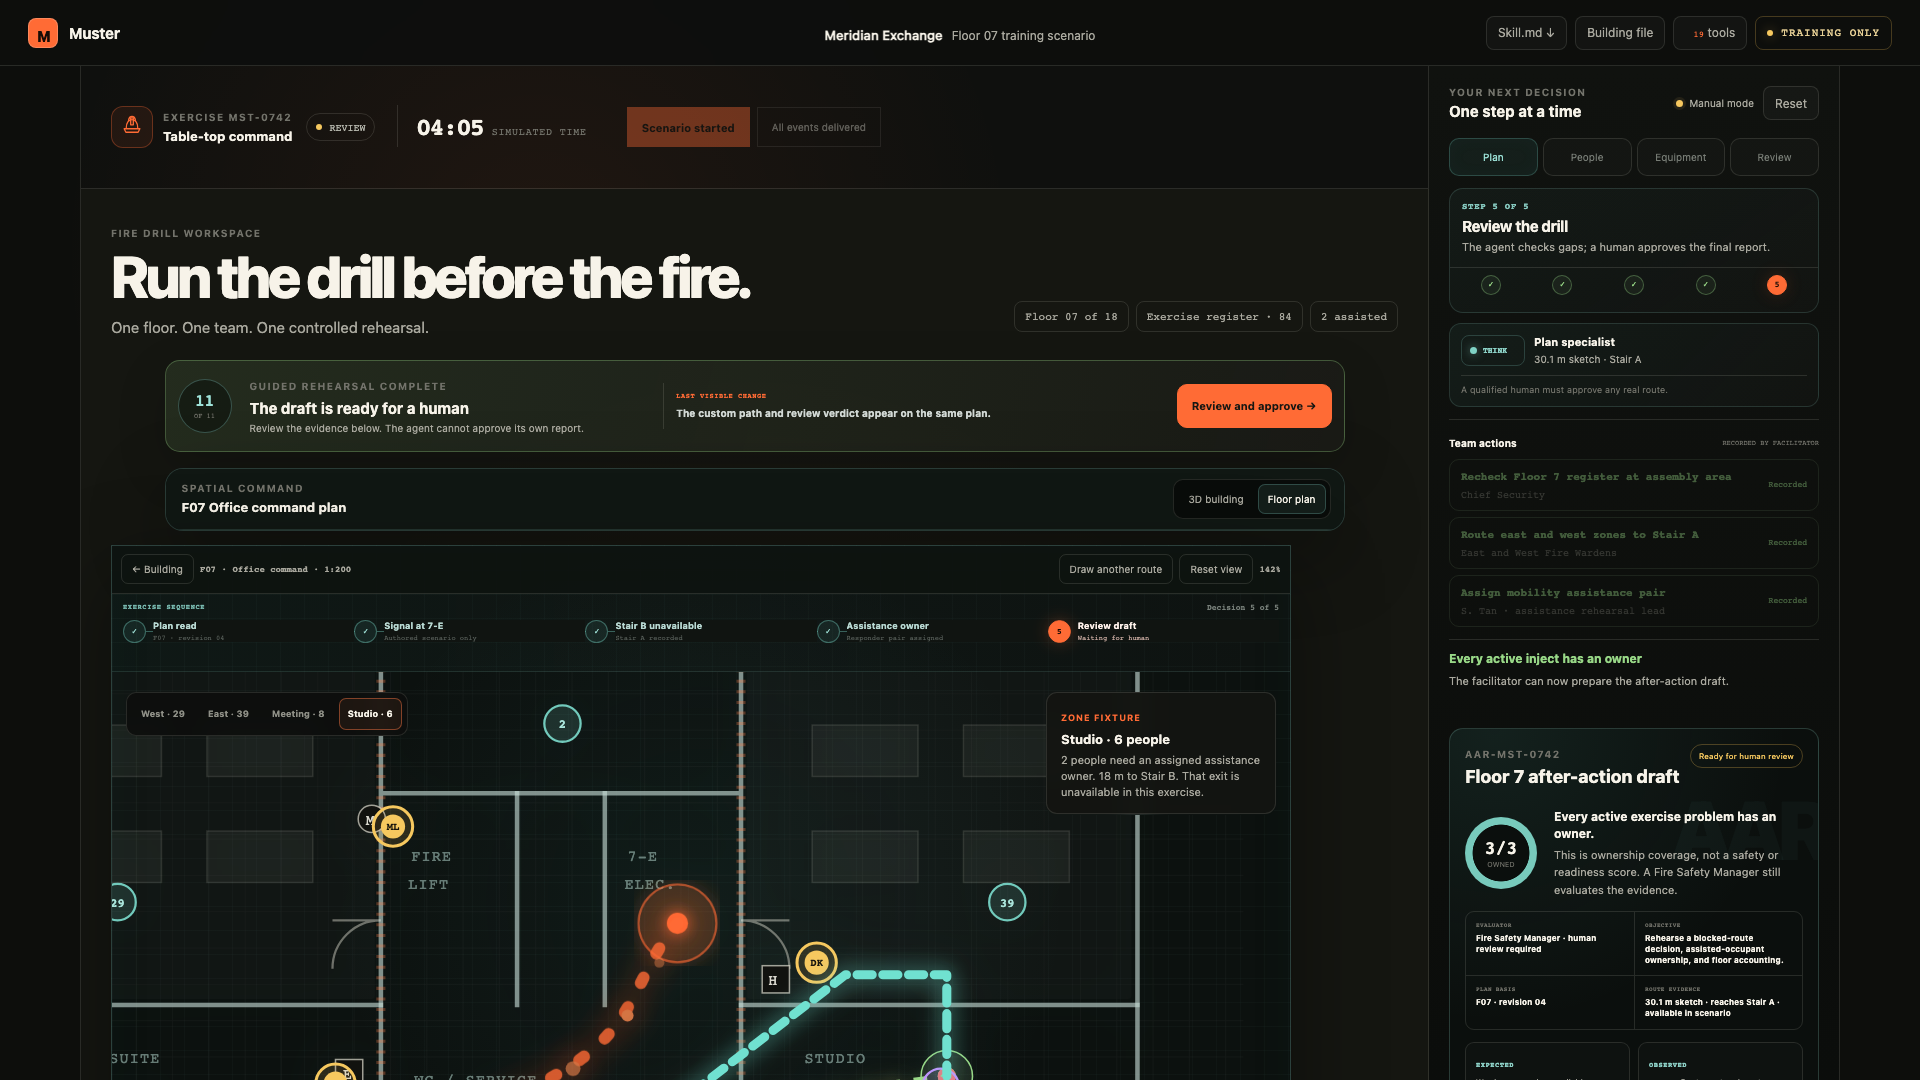
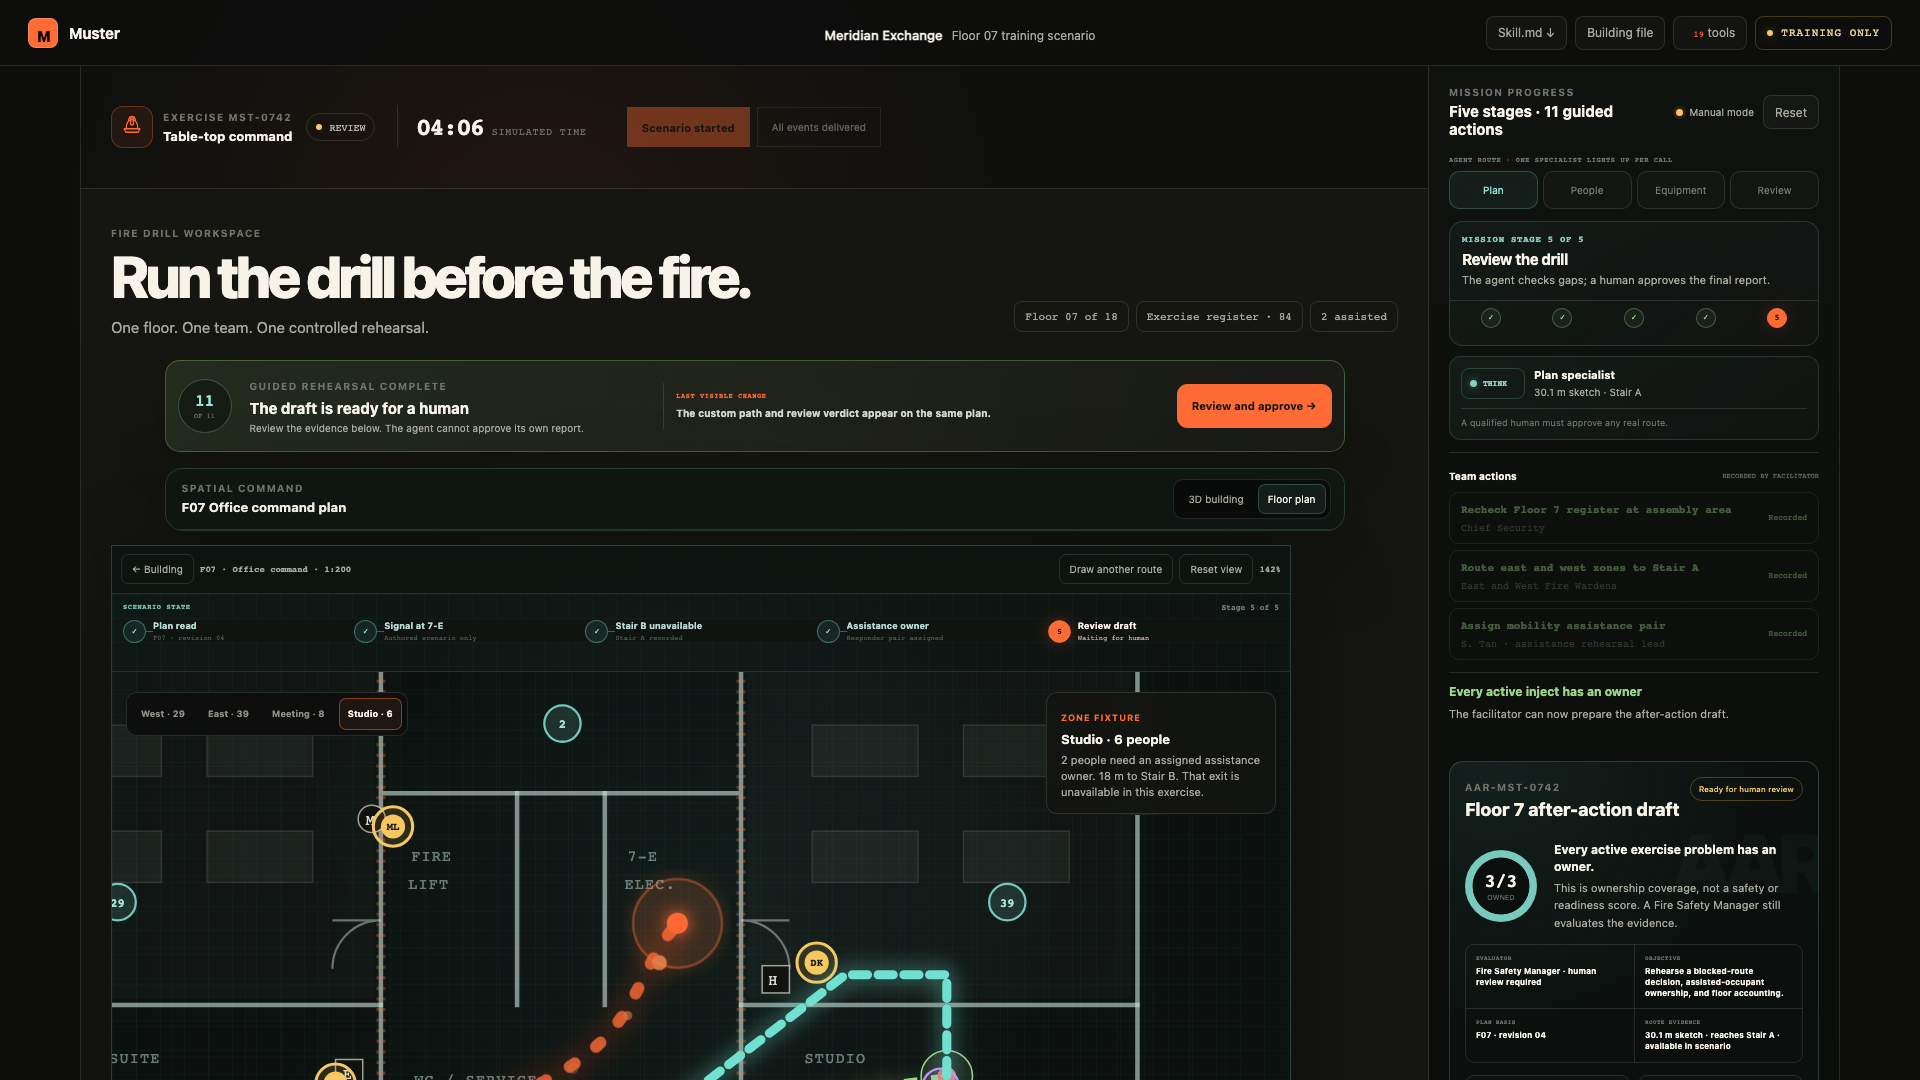
Unify native WebMCP mission progress

diff --git a/app.js b/app.js
@@ -502,6 +502,18 @@ function tracePayload(value) {
   }
 }
 
+function normaliseToolInput(value) {
+  if (typeof value === 'string') {
+    try {
+      const parsed = JSON.parse(value);
+      return parsed && typeof parsed === 'object' && !Array.isArray(parsed) ? parsed : {};
+    } catch {
+      return {};
+    }
+  }
+  return value && typeof value === 'object' && !Array.isArray(value) ? value : {};
+}
+
 function attachTraceEvidence(name, input, result, durationMs, activityStart) {
   let target = -1;
   for (let index = state.activity.length - 1; index >= activityStart; index -= 1) {
@@ -540,6 +552,7 @@ const specialistForTool = {
 };
 
 const friendlyToolNames = {
+  run_drill_manager: 'Route one mission intent',
   read_plan: 'Read plan',
   start_drill: 'Start smoke scenario',
   send_inject: 'Advance scenario',
@@ -563,6 +576,7 @@ const friendlyToolNames = {
 const traceMeta = {
   'Exercise loaded': { phase: 'Observe', owner: 'System', why: 'Load a clean fictional exercise state.', change: 'No building state changed.', boundary: 'No network or emergency connection.' },
   'WebMCP ready': { phase: 'Ready', owner: 'Manager', why: 'Expose the visible page actions to an enabled browser agent.', change: 'Tools became discoverable in this tab.', boundary: 'Registration does not grant hidden data or external control.' },
+  run_drill_manager: { phase: 'Route', owner: 'Incident Commander', why: 'Turn one human intent into a bounded sequence of named page tools.', change: 'Specialist results and their visible receipts are reconciled on this page.', boundary: 'The manager cannot call emergency services, control building systems, or approve the report.' },
   read_plan: { phase: 'Think', owner: 'Plan specialist', why: 'Ground the exercise in the visible plan revision, exits, roles, and fixture counts.', change: 'Plan context is available to the drill manager.', boundary: 'Reads only this fictional page.' },
   start_drill: { phase: 'Act', owner: 'Plan specialist', why: 'Begin the authored tabletop sequence.', change: 'The smoke inject appears beside room 7-E.', boundary: 'No alarm, dispatch, door, or building system is activated.' },
   send_inject: { phase: 'Act', owner: 'People specialist', why: 'Introduce one controlled complication for the team to respond to.', change: 'The timeline, map, and responsibility checks update together.', boundary: 'The facilitator chooses when an inject is delivered.' },
@@ -794,6 +808,7 @@ async function callTool(name, input = {}) {
 }
 
 function summariseToolResult(name, result) {
+  if (name === 'run_drill_manager') return `Routed “${String(result.intent || 'request').replaceAll('_', ' ')}” through the Incident Commander. Named specialist calls remain visible below.`;
   if (name === 'read_plan') return `${result.occupants} people, ${result.exits.length} exits, and ${result.assisted_occupants} people needing an assigned assistance owner.`;
   if (name === 'start_drill') return 'The drill is live. A scripted smoke signal is now shown beside room 7-E. Record the team response, then advance the scenario.';
   if (name === 'send_inject') return state.injectIds.includes('roster') ? 'The final event is live: two people need assistance, but no owner is assigned. Record who takes responsibility.' : 'Stair B is now unavailable in the exercise. Record the alternate route before continuing.';
@@ -916,7 +931,7 @@ function renderScenarioSequence() {
     { key: 'review', label: reportStaged ? 'Review draft' : 'Human review', detail: approved ? 'Approved by FSM' : reportStaged ? 'Waiting for human' : 'Evidence not staged', tone: 'review' },
   ];
 
-  container.innerHTML = `<header><span>Exercise sequence</span><strong>${approved ? 'Human-approved record' : `Decision ${Math.min(currentIndex + 1, stages.length)} of ${stages.length}`}</strong></header><ol>${stages.map((stage, index) => {
+  container.innerHTML = `<header><span>Scenario state</span><strong>${approved ? 'Human-approved record' : `Stage ${Math.min(currentIndex + 1, stages.length)} of ${stages.length}`}</strong></header><ol>${stages.map((stage, index) => {
     const isDone = approved || index < currentIndex;
     const isCurrent = !approved && index === currentIndex;
     return `<li class="${isDone ? 'done' : ''} ${isCurrent ? 'current' : ''} tone-${stage.tone}" data-sequence-stage="${stage.key}" ${isCurrent ? 'aria-current="step"' : ''}><i>${isDone ? '✓' : index + 1}</i><div><strong>${stage.label}</strong><span>${stage.detail}</span></div></li>`;
@@ -1237,7 +1252,7 @@ function renderPhaseGuide() {
     ['Record the team', 'The facilitator records routes, accounting, and ownership.'],
     ['Review the drill', 'The agent checks gaps; a human approves the final report.'],
   ];
-  $('#phaseGuide').innerHTML = `<div class="phase-intro"><span>Step ${Math.min(phase + 1, 5)} of 5</span><strong>${steps[phase][0]}</strong><p>${steps[phase][1]}</p></div><ol>${steps.map(([title], index) => `<li class="${index < phase ? 'done' : index === phase ? 'current' : ''}"><i>${index < phase ? '✓' : index + 1}</i><span>${title}</span></li>`).join('')}</ol>`;
+  $('#phaseGuide').innerHTML = `<div class="phase-intro"><span>Mission stage ${Math.min(phase + 1, 5)} of 5</span><strong>${steps[phase][0]}</strong><p>${steps[phase][1]}</p></div><ol>${steps.map(([title], index) => `<li class="${index < phase ? 'done' : index === phase ? 'current' : ''}"><i>${index < phase ? '✓' : index + 1}</i><span>${title}</span></li>`).join('')}</ol>`;
 }
 
 function renderGuidedBrief() {
@@ -1246,13 +1261,14 @@ function renderGuidedBrief() {
   const latest = state.activity.at(-1);
   const completed = !step;
   container.classList.toggle('complete', completed);
+  container.setAttribute('aria-label', completed ? 'Guided rehearsal complete' : `Guided action ${guidedStep + 1} of ${GUIDED_SEQUENCE.length}`);
   $('#guidedStepIndex').textContent = String(Math.min(guidedStep + 1, GUIDED_SEQUENCE.length)).padStart(2, '0');
   $('#guidedStepTotal').textContent = `of ${GUIDED_SEQUENCE.length}`;
-  $('#guidedEyebrow').textContent = completed ? 'Guided rehearsal complete' : `Guided rehearsal · ${traceMeta[step.tool]?.phase || 'Next'}`;
+  $('#guidedEyebrow').textContent = completed ? 'Guided rehearsal complete' : `Next page-tool action · ${traceMeta[step.tool]?.phase || 'Next'}`;
   $('#guidedTitle').textContent = completed ? 'The draft is ready for a human' : step.title;
   $('#guidedDescription').textContent = completed
     ? 'Review the evidence below. The agent cannot approve its own report.'
-    : step.description;
+    : `${step.description} Muster stops after this visible change.`;
   $('#guidedChange').innerHTML = latest && latest.title !== 'Exercise loaded'
     ? `<span>Last visible change</span><strong>${escapeHtml(traceDetails(latest).change)}</strong>`
     : `<span>What this step changes</span><strong>${escapeHtml(step?.change || 'No further agent action is required.')}</strong>`;
@@ -1318,7 +1334,9 @@ function renderRuntime() {
   const selectedLabel = friendlyToolNames[selected?.title] || selected?.title?.replaceAll('_', ' ') || 'Exercise state';
   const traceNodes = selected?.type === 'human'
     ? ['Human authority', 'Approval gate', selectedLabel, 'Visible record']
-    : ['Human request', 'Incident Commander', `${details.owner} · ${selectedLabel}`, 'Visible page'];
+    : selected?.title === 'run_drill_manager'
+      ? ['Human request', 'Incident Commander', 'Named specialist calls', 'Visible page']
+      : ['Human request', 'Incident Commander', `${details.owner} · ${selectedLabel}`, 'Visible page'];
   const traceGraph = `<div class="trace-orchestration" aria-label="Delegation path for selected call">${traceNodes.map((node, index) => `<span class="${index === traceNodes.length - 1 ? 'output' : ''}">${escapeHtml(node)}</span>`).join('')}</div>`;
   $('#traceInspector').innerHTML = `${traceGraph}<div><span>Why this call</span><strong>${details.why}</strong></div><div><span>Visible change</span><strong>${details.change}</strong></div><div class="trace-payload"><div><span>Input</span><pre>${escapeHtml(JSON.stringify(input, null, 2))}</pre></div><div><span>Output</span><pre>${escapeHtml(JSON.stringify(output, null, 2))}</pre></div></div><div class="trace-bars" aria-label="Recent tool duration chart">${bars}</div><p>${details.boundary}</p>`;
 }
@@ -1363,7 +1381,12 @@ async function registerWebMCP() {
     $('#runtimeConnection').innerHTML = '<i></i> Manual mode';
     return;
   }
-  for (const tool of toolDefinitions) await document.modelContext.registerTool(tool);
+  for (const tool of toolDefinitions) {
+    await document.modelContext.registerTool({
+      ...tool,
+      execute: async (input) => callTool(tool.name, normaliseToolInput(input)),
+    });
+  }
   $('#runtimeConnection').classList.add('live');
   $('#runtimeConnection').innerHTML = '<i></i> WebMCP live';
   logTool('WebMCP ready', `${toolDefinitions.length} tools registered in this tab`);

diff --git a/index.html b/index.html
@@ -362,11 +362,12 @@
 
       <aside class="decision-deck" aria-label="Team decisions and report">
         <div class="deck-head">
-            <div><span class="eyebrow">Your next decision</span><strong>One step at a time</strong></div>
+          <div><span class="eyebrow">Mission progress</span><strong>Five stages · 11 guided actions</strong></div>
           <span class="runtime-connection" id="runtimeConnection"><i></i> Manual mode</span>
           <button class="icon-button" id="resetButton" type="button" aria-label="Reset fictional exercise">Reset</button>
         </div>
         <div class="specialist-rail" id="specialistRail" aria-label="Managed specialists">
+          <small class="specialist-label">Agent route · one specialist lights up per call</small>
           <span data-specialist="plan">Plan</span><span data-specialist="people">People</span><span data-specialist="equipment">Equipment</span><span data-specialist="review">Review</span>
         </div>
         <section class="phase-guide" id="phaseGuide" aria-live="polite"></section>

diff --git a/styles.css b/styles.css
@@ -557,6 +557,7 @@ footer { padding: 13px 28px; background: #090a08; font-size: 10px; }
 
 .decision-deck { background: linear-gradient(180deg, #10120f, #0b0d0b); }
 .decision-deck .specialist-rail { margin-top: 18px; padding: 0; border: 0; }
+.decision-deck .specialist-label { grid-column: 1 / -1; margin-bottom: 2px; color: #6f7771; font: 700 7px var(--mono); letter-spacing: .08em; text-transform: uppercase; }
 .decision-deck .specialist-rail span { min-height: 38px; display: grid; place-items: center; border-radius: 10px; color: #777c75; background: rgba(255,255,255,.014); font-size: 10px; }
 .decision-deck .specialist-rail span.active { border-color: rgba(109, 194, 182, .48); color: #9ae0d5; background: rgba(82, 174, 162, .08); box-shadow: inset 0 0 18px rgba(82,174,162,.04); animation: specialist-pulse 1.8s ease-in-out infinite; }
 .decision-deck .runtime-trace { margin-top: 10px; border-color: rgba(132,185,177,.18); background: #090c0a; }

diff --git a/README.md b/README.md
@@ -52,7 +52,10 @@ The bottom command desk is also usable in a normal browser. Its deterministic qu
 
 ```js
 for (const tool of toolDefinitions) {
-  await document.modelContext.registerTool(tool);
+  await document.modelContext.registerTool({
+    ...tool,
+    execute: async (input) => callTool(tool.name, normaliseToolInput(input)),
+  });
 }
 ```
 
